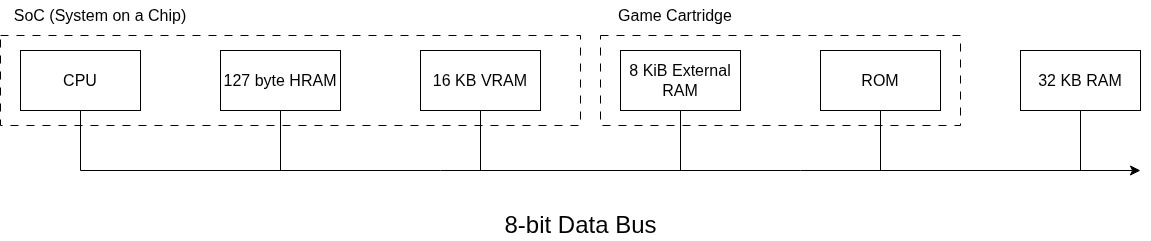
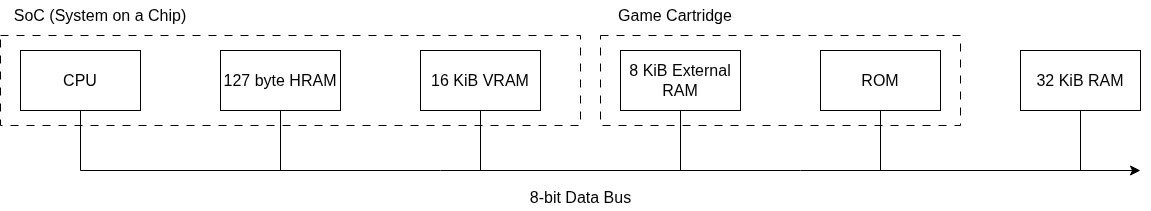
Modified firststeps post to use KiB and fixed typos

diff --git a/_posts/2026-02-15-firststeps.md b/_posts/2026-02-15-firststeps.md
@@ -18,9 +18,9 @@ I'll also need to handle user input, which will not only involve reading the inp
 ## The CPU
 The Game Boy Color used the same Sharp SM83 CPU as the original Game Boy, with the exception that it's clock speed was now roughly 8.38 MHz — double the clock speed of the original. In order to keep the console backwards compatable with the original Game Boy's games, the Game Boy Color's CPU had 2 modes: Normal mode with a clock speed of roughly 4.19 MHz; and Dual-speed mode with the aforementioned speed of ~8.38MHz.
 
-The Sharp SM83 had an addressable memory space of 64 KB with it's 16-bit address bus, and is used for ROM, RAM, and I/O. Connecting all these together was an 8-bit data bus.
+The Sharp SM83 had an addressable memory space of 64 KiB with it's 16-bit address bus, and is used for ROM, RAM, and I/O. Connecting all these together was an 8-bit data bus.
 
-Additionally, there was also 32 KB of memory stored onboard of the motherboard.
+Additionally, there was also 32 KiB of memory stored onboard of the motherboard.
 
 ![CPU Memory Architecture]({{ site.baseurl }}/assets/cpu_memory_architecture.jpg)
 
@@ -31,7 +31,7 @@ To generate images, the Game Boy uses 8x8px squares called tiles as the base uni
 
 Graphics are rendered in 3 different layers: Background; Window which is used UI elements like health bars; and Objects which can move independently and are combined to create sprites.
 
-To store tile-related data, the PPU is connected to 8 KB VRAM on the motherboard, while other data such as Palettes and Objects are stored in it's own address space.
+To store tile-related data, the PPU is connected to 8 KiB VRAM on the motherboard, while other data such as Palettes and Objects are stored in it's own address space.
 
 ![VRAM Diagram]({{ site.baseurl }}/assets/vram_diagram.jpg)
 
@@ -42,5 +42,5 @@ The APU provides four audio channels to play sound.
 
  These are controlled by writing to specific registers, located in registers $FF10-$FF26.
 
-
+ There are a lot of complicated functions to each of these that I haven't gone over in this entry, but those will be discussed in depth in future posts when I share insights on various implementations of these components.
 
